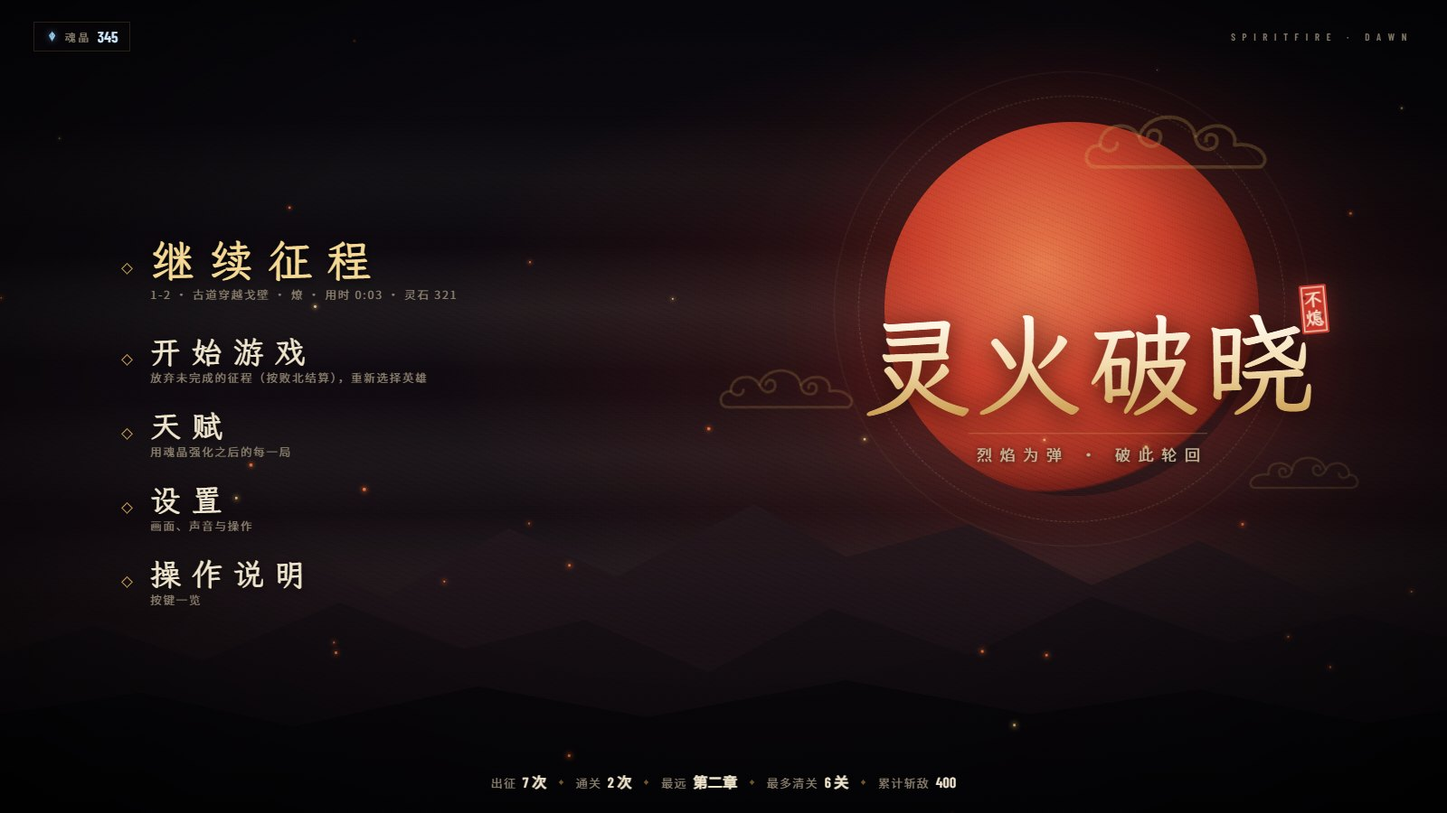
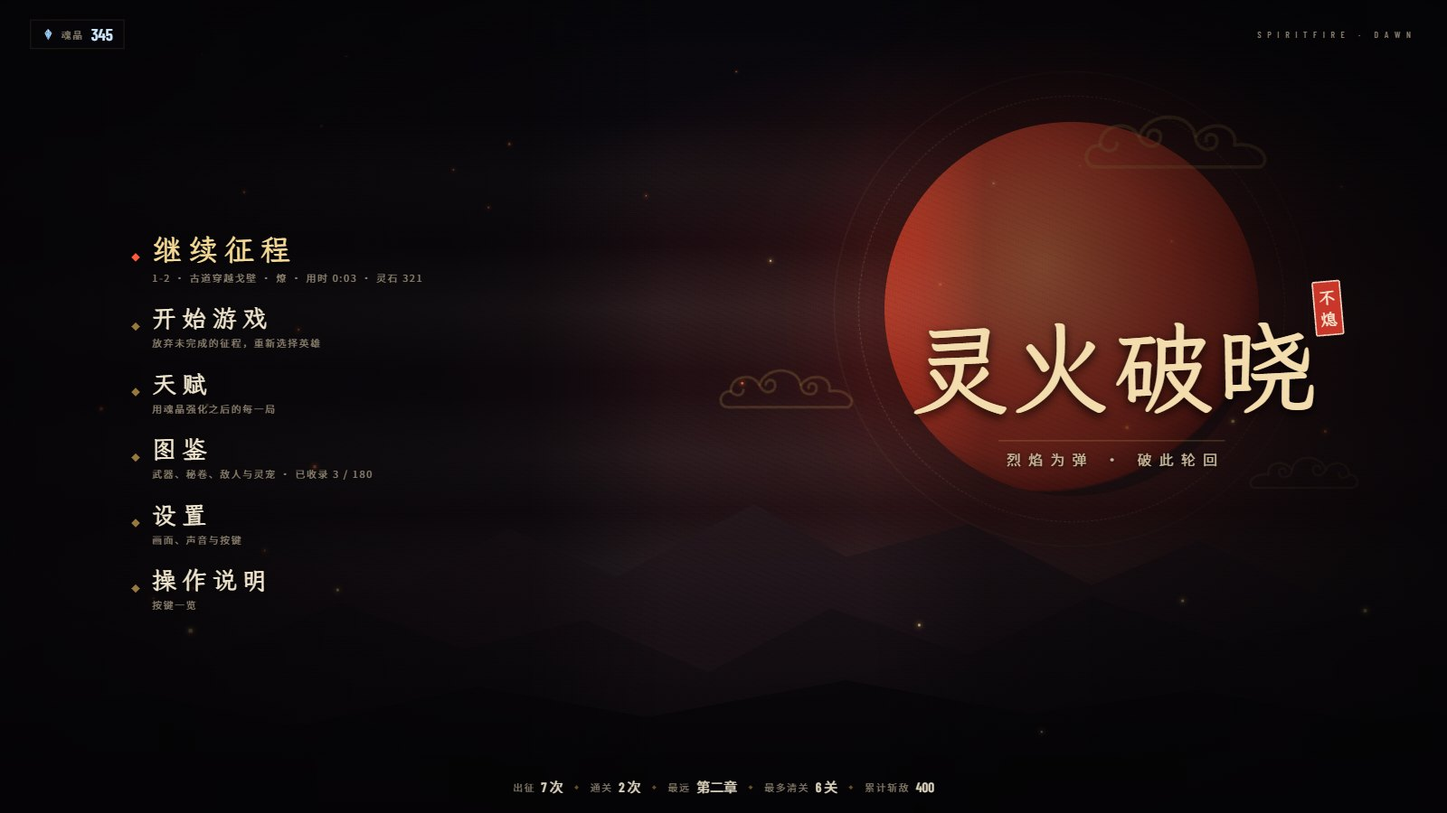
docs: M11d 按审查修完——迁移计划 4.7 / 计划表记阵亡当场结算、快照先于 stage:loaded、确认框接新主菜单；实机脚本改走界面第二期
- scripts/web/core-check.mjs：「继续征程」按新主菜单的 data-name 找；进关快照不含聚宝盆 / 补弹、反复暂离灵石不涨、继续征程生命照档、
  出征先弹确认框（取消不动档）、阵亡当场结算且慢动作里不能暂停 / 暂离，31 项（5713 端口实机全过）
- 截图按新界面重拍：主菜单「继续征程」、暂停、设置·画面，新增出征确认框、阵亡结算

diff --git a/docs/threejs-migration.md b/docs/threejs-migration.md
@@ -89,7 +89,7 @@ Unity 编辑器 ──bridge.sh webgameplay──▶ public/assets/unity-gamepla
 | M11a | 渲染观感：StylizedLit / Terrain / Foliage / Fur 着色、材质参数导入、后处理栈、三色环境光 / 雾 / 天空、CSM | 7.6k 着色器 | 🔶 材质 ✅ 2026-11-16（1f213358，`src/world/UnityStylizedLit.ts`：色阶、阴影染色、阶梯高光、边缘光、地形高度混合 / 宏观噪声 / 坡度压暗 / 陡坡三向投影、植被风摆与背光透射，Trilight 投成 SH 环境光）；太阳阴影照 Unity 管线（0564dd10，2048 贴图、90 m、跟相机）；云天 + 逆光光柱接入（52c719c6）；后处理栈 ✅ 2026-11-18（646f7eae，`src/render/PostStack.ts`：HDR 目标 + URP Bloom + 照 URP Color.hlsl 写的 Neutral + 每关 Volume 调色烘 LUT + 暗角 + 色差 + 低血 / 受击 / 冲刺玩法屏效；`scripts/web/export-volume-profiles.mjs` 从 27 份 Profile 导出 `volumes.json`，含 3-3 火神王座局部 Volume 的盒子混合；`?post=0` 或低画质绕开）。待办：AO、3-3 第一人称手被泛光吹白、1-2 比 Unity 偏灰（大气在 ACES 下调的，要按 Neutral 重调）、Fur、导出器补 `_ORMMap` / 关键字 / 地形材质参数、流动雾带与小活物逐图摆位 |
 | M11b | 特效核心：预设 JSON + 粒子引擎、线条、灯光池、贴花、预警圈、溶解、状态皮肤（首领专属特效随 M6） | 5k + 6.4k | ⬜ 注意：网页版已有一批「特效分层」（703950b2 / dd6db46d / 49b82303：`Fx.ts` 的余韵、`Seal.ts` 国风法印、三种新粒子形状、狐 / 熊 / 隼技能，准则 docs/art/fx-style.md 第五节），换粒子引擎时要一起迁过去，不能丢 |
 | M11c | 界面：USS → CSS、四层路由、字体、约 10 个新界面、HUD 部件重做 | 13.5k | ✅ 2026-11-21。第一期（基础 + HUD）✅ 2026-11-19（3f892251…ed68a128）：`scripts/web/convert-uss.mjs` 把 9 份 USS（763 条规则）转成 `src/ui/css/unity/*.css`（`--check`；`-unity-*` 映射表 MAPPED / 转不了的 UNSUPPORTED，现在只有 theme 的段间距一处），UI Toolkit 默认值的网页基准在 `src/ui/css/sf-base.css`（零优先级：纵向 flex、border-box、最小尺寸 0、`\n` 总换行）；`scripts/web/publish_fonts.py` 把三种字体（正文子集 + 余量、霞鹜文楷子集、Barlow Condensed）转 WOFF2 发布到 `public/assets/fonts`，@font-face 带按字表生成的 unicode-range（余量 4 MB 用到才下），旧 gf-* 界面的字体变量也换成它们；`src/ui/toolkit/`：四层（Hud / Overlay / Modal / Toast，1920×1080 Expand 缩放）、路由（栈、返回、焦点还原、方向键空间导航与连发、滑条左右调值）、提示队列、横幅、黑幕、闪光、图标、FitLabel；`src/ui/hud/`：生命护盾、武器槽、Q / E 技能盘 + 冲刺格、武器技能 V 盘、信息角、准星、六向受击弧 + 闪屏 + 低血暗角、伤害数字（池 80、按目标合并：Feedback 把敌人放进 `DamageNumberOpts.target` 交给 UI）、头顶血条、首领条（BossDef 刻度、无敌、破防条）、交互提示卡、中央大字、反应首遇教学卡；`src/ui/screens/`：暂停、设置（按设置表生成三页）。对照测试 `tests/uss-convert.test.mjs`、`tests/ui-router.test.mjs`；实机截图 `node scripts/web/ui-shots.mjs <端口>` → `docs/art/review/threejs-migration/ui-*.jpg`。与 Unity 的差异：目标文字没有遭遇 / 出口的 SetObjective 钩子，按同样格式从关卡状态拼；技能「放不出来」闪红靠按键时没有充能判断（技能系统没有拒绝事件）；网页武器没有预热转速、元素轮转「下一发」的读数（转速条 / 转速环不出现，三才转轮显示金圈「三」）；设置页没有显示模式 / 分辨率 / 垂直同步 / 帧率上限 / 屏幕特效 / 瞄准辅助（网页无对应设置），多一项阴影精度；暂停「返回主菜单」照网页现状不结算、总要二次确认（续玩随 M11d）；UICapture 不需要（浏览器截图本来就带界面）。**第二期** ✅ 2026-11-21（分支合并前 rebase 过，这里写提交标题不写哈希，`git log -F --grep '<标题>'` 可查：「确认框、按键说明、设置「按键」改键页与键位表」「HUD 新部件」「新界面与旧界面重做」「界面全部走新路由」「罗盘条与全图的方位照 Unity」「图鉴敌人页照 Unity 名册」「清掉旧 gf-* 界面的残留」「M11c 第二期路由规则与数据映射对照测试」「M11c 第二期 1920×1080 实机截图 26 张」；审查后的修正「Tab 行囊常驻属性照 Unity StatGrid.KeyStats」「精英印章的词缀纹样改用词缀本身的颜色」「图鉴武器缩略图摘掉掉落模型的稀有度光晕再取景」「关卡卡片只在出口进门时弹」「局内货币在界面上叫灵石」「秘卷代价行照 Unity」「ui-screens 补对照——行囊属性表」「M11c 第二期截图按审查修正重拍」「掉落 / 宝箱 / 商店提示里的局内货币改叫灵石」）：新界面——确认框、按键说明、设置「按键」改键页（`src/ui/KeyBinds.ts` 键位表：改键只换第一个键盘键、存 localStorage 只存改过的、套到 `ctx.input.bindings`）、图鉴（`src/ui/codex/`：收录存档、条目清单、离屏缩略图棚 `CodexThumbs`、局内收录 `CodexTracker`；敌人页照 Unity 名册只列 44 条、章内按 [Defs] 序、首领「首领 · 称号」，网页注册表里旧三英雄名册与首领附属件不列）、M 键全图 + 罗盘条（`MapMarkers.ts` 地点表；方位照 Unity：北 = +Z、东 = −X，导出器只翻 X）、关卡卡片（出口进门 `Portal.enter` 换关前问 `IUI.stageCard`，同 Unity `GameSession.CompleteStage` 只在真正过关时弹；检视页跳关 / 重置直接 `game.advance` 不弹）、HUD 部件精英印章 / 秘卷触发弹字 / 狙击镜遮罩 / 灵宠面板（数据走 `PetSource`，M9 接之前是空态壳）；旧界面迁到新路由与 USS 样式——主菜单（CSS 远景 `MenuBackdrop` 垫底）、选英雄（嵌旧 3D 预览台）、天赋、整局结算、秘卷三选一、Tab 行囊（含灵宠页）；文字映射集中在 `ScreenData.ts`；层位登记在 `UI.ts` 的 SCREEN_SLOTS（全部 done）。旧 gf-* 界面与样式删掉：`base.css` 只留容器文字基准（原来的 `.gf-ui button { font: inherit }` 一直盖着 USS 按钮字号），`dom.ts` / `labels.ts` / `icons.ts` 只剩新界面在用的；`src/fx/Fx.ts` 不再挂 `src/fx/DamageNumbers.ts`（文件没动，现无引用），`fx.damageNumber` 转交 UI 的 HUD 数字。对照测试 `tests/ui-screens.test.mjs`（路由规则 / 热键 / 键位 / 按键说明对 Unity C#，各界面文字映射对 Unity 字面量，图鉴名册 / Lore / 分页 / 存档，全图投影用 1-1 真数据），`tests/adventure-ui.test.mjs` 改测新地点表。实机 `node scripts/web/ui2-shots.mjs <端口>` → `docs/art/review/threejs-migration/ui2-*.jpg`（28 张，1920×1080；审查第一轮后重拍，多了高风险卷的三选一卡面与图鉴说明两张，关卡卡片改走出口进门）：每张在页面里核对 USS 写死的长度 / 颜色 / 排版值（27648 项零不一致；宽高只有图鉴详情大图框被 flex 压 5 px，Yoga 同样会压）、摘掉全部 gf- 规则前后 sf 元素计算样式不变、页面报错 0（worktree 里跑要给 vite 放行主检出的 node_modules，见脚本头注释）。与 Unity 的差异：灵宠本体没迁（M9），HUD 灵宠面板不显示、行囊灵宠页 / 图鉴灵宠页签是空态；秘卷系统没有「触发」事件，秘卷触发弹字只有入口 `UI.scrollProc(id)` 没有调用方；精英印章的词缀纹样是 canvas 简化版（Unity 纹样随金环属 M11b）；关卡卡片没有「重来本关」（没有进关快照，M11d）；秘卷卡面没有「当前 → 下一层」属性预览（网页秘卷定义没有 PreviewStats）；行囊武器卡数值格用武器系统的描述，条数随武器而定（Unity 固定六格）；全图上没开的出口不上图（网页清场后才定出口）、场地没有「前置场地」只按远近挑目标；主菜单 / 选英雄没有 3D 菜单场景（CSS 远景 + 旧预览台）；没有手柄（按键说明与改键页手柄一列写「—」、设置主菜单副标题去掉「手柄」）；胜利题记按网页 `CHAPTER_COUNT`（4）写「四章尽破」，Unity 写死「三章尽破」；图鉴缩略图拍绑定姿势（Unity 先求动画第 0 帧）、连鼓灵没有网页模型（单字签） |
-| M11d | 核心：存档迁移、续玩、时间仲裁、卡帧、模态栈、画质档、剔除 | 7.6k 中约一半 | ✅ 2026-11-21（提交见 git log 的 `feat(core): M11d …` 一组；rebase 到界面第二期之后旧哈希失效），对照清单见 4.7：存档信封（`core/SaveService.ts`：版本 / .bak / .corrupt / 迁移，localStorage 一文件一键；老存档 `gunflame.meta.v1` 按信封 v1 迁成 meta / career 两段，老键不动）、元进度与生涯（`progression/Meta.ts`：一局只结一次、天赋开局快照）、设置表（`core/GameSettings.ts`：设置页由表生成，补帧率上限 / 屏幕特效；老设置导入时把 M11e 之前的音量按旧缺省换算，听感不变）、续玩（`progression/RunSuspend.ts`：每进一关写进关快照，主菜单「继续征程」、暂停「返回主菜单」暂离不结算、没结算的局回主菜单按失败结算）、时间仲裁提到 core（首领框架原处转出口）+ 模态栈 + 顿帧 + 清场慢动作 + 手感表、三档画质参数表（渲染比例已接）、Unity 场景小件 / 散布件按距离剔除、性能预算、平衡模型与经济投影（`progression/BalanceModel.ts`，`?debug` 的 `__balance()`）。对照测试 `tests/unity-core-time` / `unity-core-save` / `unity-core-quality` / `unity-balance`；实机 `node scripts/web/core-check.mjs <端口>` 25 项。待办：开新局放弃旧局的确认框与主菜单旧设置面板（界面第二期）、画质表其余列（各系统那一期接）、顿帧的斩击 / 技能直接来源与武器 / 秘卷的正式读档入口（M8） |
+| M11d | 核心：存档迁移、续玩、时间仲裁、卡帧、模态栈、画质档、剔除 | 7.6k 中约一半 | ✅ 2026-11-21（提交见 git log 的 `feat(core): M11d …` 一组；rebase 到界面第二期之后旧哈希失效），对照清单见 4.7：存档信封（`core/SaveService.ts`：版本 / .bak / .corrupt / 迁移，localStorage 一文件一键；老存档 `gunflame.meta.v1` 按信封 v1 迁成 meta / career 两段，老键不动）、元进度与生涯（`progression/Meta.ts`：一局只结一次、天赋开局快照）、设置表（`core/GameSettings.ts`：设置页由表生成，补帧率上限 / 屏幕特效；老设置导入时把 M11e 之前的音量按旧缺省换算，听感不变）、续玩（`progression/RunSuspend.ts`：每进一关写进关快照，主菜单「继续征程」、暂停「返回主菜单」暂离不结算、没结算的局回主菜单按失败结算）、时间仲裁提到 core（首领框架原处转出口）+ 模态栈 + 顿帧 + 清场慢动作 + 手感表、三档画质参数表（渲染比例已接）、Unity 场景小件 / 散布件按距离剔除、性能预算、平衡模型与经济投影（`progression/BalanceModel.ts`，`?debug` 的 `__balance()`）。对照测试 `tests/unity-core-time` / `unity-core-save` / `unity-core-quality` / `unity-balance` / `unity-core-flow`；实机 `node scripts/web/core-check.mjs <端口>`。2026-11-22 按审查修：阵亡当场结算（慢动作里不能暂停 / 暂离）、进关快照先于 `stage:loaded`（暂离 → 继续不再刷聚宝盆 / 弹药）、换关载入失败不结算、放弃旧征程等场景清单；rebase 到界面第二期之后「继续征程」接到新主菜单，出征前的确认框接上；局流程测试 `tests/unity-core-flow`。待办：画质表其余列（各系统那一期接）、顿帧的斩击 / 技能直接来源与武器 / 秘卷的正式读档入口（M8） |
 | M11e | 音频：改播烘好的 ogg + WebAudio 总线 | 1.3k | ✅ 2026-11-18（db6ae16d；素材 ba1adca8：`scripts/web/publish-audio.mjs` 把 Unity 的 246 个音效片段 + 8 条曲目 / 声床 + 清单拷到 `public/assets/audio`，核对 OggS / DLP 密文，`--check` 逐字节）。`src/audio/AudioSystem.ts` 照 GameAudio 播 ogg：48 声道抢占、同 id 节流 + 敌方音色单独节流、密集音、k^1.6 衰减、近处声像收窄、远处 / 背后低通、遮挡（`ctx.world.raycast`）、I6 三层分层、光束循环、配乐交叉淡化；`AudioMixer.ts` 照 Spiritfire.mixer 搭总线与快照；MusicDirector / AmbienceDirector（每章声床、章节混响送、3-3 混响区）/ AudioDuck / UISound 照译；规则与常数在 `AudioRules.ts`，对照测试 `tests/audio-parity.test.mjs`。设置补环境音 / 界面音两档，五档缺省改成 1（同 Unity）。退路：清单 / 片段读不到退回老的实时合成配方。待办：老存档里的音量是旧语义（M11d 存档迁移时换算）；SFX Reverb 是卷积近似；3-3 的混响区照 Unity 挂在世界原点（离主路远，多半听不出，Unity 同样）；WeatherDirector 的风声随天气系统迁 |
 | M12 | 动画：native-anim → AnimationClip、Blender 片段导 GLB、控制器状态机与事件、CreatureRig | 1.8k 运行时 | 🔶 第一期 ✅ 2026-11-16（51e4bf35）：`npm run` 外的 `node scripts/web/export-native-anims.mjs` 把 52 个资产 469 个采样片段导成 `public/assets/anim/*.json`（3.5 MB，带 231 个片段的事件）；`src/anim/` 复刻 Animator（一维混合树、任意状态 / 退出时刻转换、加法受击层、逐帧事件）、CreatureRig（脚步探地 + 两骨 IK、看向、受击弹簧、弹簧骨）、CreatureLocomotion；检视页 `anim-lab.html`。待办：敌人类改用 `CreatureAnimator`（接法见 `src/anim/CreatureAnimator.ts`）；Blender 手 K 片段（15 个资产约 123 个，旱魃 / 商人只有手 K）加 GLB 导出；魔将 11-07 换骨架后采样片段失效；布娃娃 |
 | M13 | Unity EditMode 对照测试 → `node --test` | — | 🔶 2026-11-21：伤害乘区 / 战斗管线 / 属性表、元素反应、词条 / 传说、武器解析与掷骰、武器描述、秘卷（定义与公式）、精英词缀与站位、开火计时常量——8 份 `tests/unity-*.test.mjs`；75 份 Unity 测试逐份的去向和对照出来的不一致见 7.1 / 7.2。待办：FireMode / WeaponSpecials / Hero / Motor / Projectile 的行为用例（等 M8）、秘卷逐卷触发、Hazard / BossHazard |
@@ -242,7 +242,7 @@ Unity 的九种雷魅是照网页 `world/plateau/play/foes.ts` 译的（`Plateau
 | MetaSave（魂晶 / 天赋 / 英雄）、CareerStats、`BankRun`、天赋开局快照、`ApplyTalents` 幂等 | `progression/Meta.ts` | ✅ meta 段 + career 段（照 Unity 多记阵亡 / 各章阵亡 / 最快通关 / 单局最多击杀 / 总用时 / 总伤害 / 累计魂晶 / 各英雄局数胜场；老存档没有阵亡，按 局数 − 胜场 补）；一局只结一次（`run.flags['meta.banked']`）；天赋按 `run.talents` 快照生效，和属性表现有的一样时不动（版本号不变）。界面读的 `meta.save` 形状不变（活视图）。图鉴段（Codex*）随界面第二期 |
 | GameSettings（设置表、`settings` 段只写非默认项、老 PlayerPrefs 导入） | `core/GameSettings.ts`、`core/settings.ts`；设置页 `ui/screens/SettingsScreen.ts` 由 `GAME_SETTINGS` 生成 | ✅ 两边都有的项键 / 显示名 / 分组 / 默认 / 范围 / 步长 / 选项 / 顺序逐项对 C#；补进表的：帧率上限、屏幕特效（接后处理的玩法屏效强度），震屏上限 1.5。Unity 独有、网页不列：显示模式 / 分辨率 / 垂直同步（浏览器管）、手柄瞄准辅助（没有手柄输入）；网页独有：阴影精度。画质在 Unity 存 ArtQuality 自己的 PlayerPrefs，网页存在设置段（下标）。**老设置**（`gunflame.settings.v1`）导入一次：M11e 之前的音量是旧语义（主 / 音效 / 音乐缺省 0.8 / 0.9 / 0.5 就是总线电平，音乐另乘 0.6），除以旧缺省换成新推子（旧 0.4 / 0.45 / 0.25 → 0.5 / 0.5 / 0.5，实际电平 = 推子 × 清单 mix 0.8 / 0.9 / 0.3，听感不变），超过旧缺省的夹在 1；带环境音 / 界面音两项的是 M11e 之后存的，原样 |
 | GraphicsQuality（帧率上限、显示模式、分辨率、垂直同步） | `GameSettings.ts` 的 `FrameLimiter` / `targetFrameRate` | 🔶 帧率上限按 rAF 跳帧（144 Hz 限 60 = 隔 2 或 3 帧，平均 60），后台标签页浏览器自己限；显示模式 / 分辨率 / 垂直同步不做 |
-| RunSuspend（进关快照、续玩档、坏档提示、放弃按败北结算、`CanSuspend`）+ MenuFlow（`ResumeRun` / `Suspend` / `ToMenu(bank)` / `StartRun` 放弃旧局） | `progression/RunSuspend.ts`；`core/Game.ts` 的 `continueRun` / `suspendRun` / `canSuspend` / `suspendedRun`、`toMenu(bank)`；主菜单「继续征程」、暂停「返回主菜单」 | ✅ 每进一关（关卡搭好、玩家就位后）写 `spiritfire.save/run.json`（调试档开着时调试局写 `run.dev.json`）：关卡（槽位编号 + 地图编号）、英雄、种子、路线、武器（品质 / 强化 / 元素 / 弹药 / 词条 / 手上那把）、秘卷层数（按获得顺序）、灵石、魂晶、生命护盾、用时 / 伤害 / 击杀 / 清关数、标记、天赋快照；随机流只由「种子 + 关卡 + 流名」决定，不另存。一局结算（阵亡 / 放弃 / 胜利 / 开新局放弃旧局）就删档；暂停「返回主菜单」能暂离时一按就走、不结算，否则（调试局）按失败结算、二次确认；没结算过的局回主菜单先按失败结算（Three.js 原来不结算、白丢魂晶，照 Unity 不跟）。差异：开新局时有续玩档，Unity 先弹确认框，网页还没有确认框（界面第二期），「开始游戏」的提示里写明会放弃旧局；继续征程照样发 `run:started`（网页的掉落 / 技能 / HUD 靠它复位）；章从 0 起（网页 RunState）；没有灵宠（M9）；读档装回武器靠 `weapons.roll` + 改字段 + `applyHeldMods`，秘卷 `scrolls.add` 静音装回（M8 给武器 / 秘卷加正式读档入口后换掉） |
+| RunSuspend（进关快照、续玩档、坏档提示、放弃按败北结算、`CanSuspend`）+ MenuFlow（`ResumeRun` / `Suspend` / `ToMenu(bank)` / `StartRun` 放弃旧局） | `progression/RunSuspend.ts`；`core/Game.ts` 的 `continueRun` / `suspendRun` / `canSuspend` / `suspendedRun`、`toMenu(bank)`；主菜单「继续征程」（`ui/screens/MainMenuScreen.ts`）、出征前的确认框（`startNewRun`，选英雄「出征」走它）、暂停「返回主菜单」 | ✅ 每进一关（关卡搭好、玩家就位后、发 `stage:loaded` 之前，同 Unity Arrive 先记 entry 再 Announce——聚宝盆入账、每关补弹不进快照）写 `spiritfire.save/run.json`（调试档开着时调试局写 `run.dev.json`）：关卡（槽位编号 + 地图编号）、英雄、种子、路线、武器（品质 / 强化 / 元素 / 弹药 / 词条 / 手上那把）、秘卷层数（按获得顺序）、灵石、魂晶、生命护盾、用时 / 伤害 / 击杀 / 清关数、标记、天赋快照；随机流只由「种子 + 关卡 + 流名」决定，不另存。一局结算（阵亡当场 / 放弃 / 胜利 / 开新局放弃旧局）就删档；阵亡慢动作里不能暂停、不能暂离；暂停「返回主菜单」能暂离时一按就走、不结算，否则（调试局）按失败结算、二次确认；没结算过的局回主菜单先按失败结算（Three.js 原来不结算、白丢魂晶，照 Unity 不跟）。有续玩档时出征先弹确认框（文字同 Unity MenuFlow.StartRun），放弃旧局等场景清单读到之后再做；主菜单读到坏档提示一次。差异：继续征程照样发 `run:started`（网页的掉落 / 技能 / HUD 靠它复位）；章从 0 起（网页 RunState）；没有灵宠（M9）；读档装回武器靠 `weapons.roll` + 改字段 + `applyHeldMods`，秘卷 `scrolls.add` 静音装回（M8 给武器 / 秘卷加正式读档入口后换掉） |
 | TimeScaleArbiter | `core/TimeScaleArbiter.ts`（首领框架 `enemies/bosses/framework/TimeScaleArbiter.ts` 改成转出口，行为不变） | ✅ 优先级 顿帧 100 / 阵亡 200 / 过渡 300 / 模态 400 / 暂停 500，清场慢动作 90；同级取最后一个；句柄 scale 可改；NaN / 负数当 0、上限 100。比 Unity 多的（M6 那一版就有）：按真实时间自动撤销、外部接管（白盒检视页的俯视暂停还直接写 timeScale）。主游戏不再直接写：暂停 / 模态 / 阵亡慢动作都经仲裁 |
 | GameStateMachine（底层状态 + 模态栈） | `core/GameStateMachine.ts`，`Game.fsm` | ✅ 暂停 / 模态各是栈上一项（停住时间，弹出撤销）；`game:stateChanged` 由它发 |
 | HitStop | `core/HitStop.ts`，Game 接 `enemy:killed` / `enemy:damaged` / `enemy:reaction` | ✅ 击杀 0.035 / 0.07 / 0.18 s、重暴击（打掉总量 18%，冲锋枪暴击不算）0.025 s、直接反应 0.045 s，×0.05；不叠加、最小间隔 0.12 s、预算桶 0.15 s / 每秒回 0.075 s、不够 12 ms 不顿。没接：斩击命中、技能落地这类直接 `request` 的来源（武器 / 技能在 M8） |
@@ -252,10 +252,11 @@ Unity 的九种雷魅是照网页 `world/plateau/play/foes.ts` 译的（`Plateau
 | CullLayers（小件层 8 / 散布层 9 + 相机 layerCullDistances） | `core/CullLayers.ts`，Game 在 `stage:loaded` 给 Unity 场景分层 | ✅ 尺寸分层（≤ 1.6 m 小件、≤ 6 m 散布）、各档距离（高 120 m / 散布到雾终点；中 90 m / 0.85；低 60 m / 0.65）照抄；three.js 没有按层的剔除距离，改成记包围盒中心、相机挪 1.5 m 才重算、改 `visible`（球面距离）。只收 Unity 场景文档里看得见的静态网格：蒙皮 / 实例化 / 着色器材质（水、熔岩）/ 会摆的（幡、灯笼）/ 已经藏起来的不动（Unity 是跳过带刚体 / 可受伤 / 非 Default 层的）；机关会动的件按原位置剔；非 Unity 场景（旧竞技场）不剔；`?cull=0` 关 |
 | PerfBudget | `core/PerfBudget.ts` | 🔶 预算数照抄（运行时 / 构建时）；`?perf=1` 性能表还没调 `checkPerf`；PerfViews（固定机位、必经点连线）不迁 |
 | BalanceModel + EconomyConfig.Project | `progression/BalanceModel.ts`（经济投影 `projectEconomy`）、`progression/BalanceBosses.ts`（四个首领的击杀用时） | ✅ 编制表照抄 C#（Unity 从场景里的 EncounterSite 统计，网页测试逐行对源码）；参考秒伤 90 × 装备倍率 × 1.6 × 0.8；补给营预算、装备计划、每章收入、魂晶估算。只算前三章（第四章网页是另一套场景，同 Unity）。EconomyConfig 本身和具名随机流 RunRng 在 M3 已迁 |
-| GameSession / SceneFlow / RunEnd / LevelBootstrap / SystemsBootstrap / PlayerFactory / PlayerSpawn / DevCommands | `core/Game.ts` | 不另迁：Unity 的场景装配；用得到的规则（开局结算旧局、进关快照、阵亡慢动作、结算一次）都落在 Game 里 |
+| GameSession / SceneFlow / RunEnd / LevelBootstrap / SystemsBootstrap / PlayerFactory / PlayerSpawn / DevCommands | `core/Game.ts` | 不另迁：Unity 的场景装配；用得到的规则（开局结算旧局、进关快照先于 StageLoaded、阵亡当场结算 + 慢动作、结算一次）都落在 Game 里，`tests/unity-core-flow.test.mjs` 拿真的 Game.ts 跑一遍（渲染 / 场景 / 界面 / 玩家 / 武器 / 秘卷打桩） |
 
-Unity 测试的去向：SaveServiceTests、RunSuspendTests（除图鉴四条）、FeelProfileTests（除瞄准辅助）、BalanceModelTests（除 `Weapons_SustainedTheoryNearThreeJsBand`、`Stage11_WeaponRewardsCannotRollRandomElement`——武器，随 M8 / M13）、GraphicsAudioTests 的 QualityTiersAreMonotonic / HighTierMatchesProjectAssets / DisplayAndVolumeSettingsPersist（网页有的项）/ FrameCapRules、PerfTests 的分层 / 剔除距离 / 预算 → 上面四份；GraphicsAudioTests 的 ProfileWritesPipelineAsset、PerfTests 的固定机位、RenderPerfSettingsTests 纯 Unity，FxBudgetFollowsQualityTier 随 M11b。
-**还没做**：开新局放弃旧局的确认框、主菜单的旧设置面板（`ui/SettingsPanel.ts` 手写，灵敏度下限 0.1、音量步长 0.01、没有帧率上限 / 屏幕特效，存盘时按表的步长取整）——都随界面第二期换掉；画质表其余列随各系统那一期接；顿帧的直接来源随 M8。
+Unity 测试的去向：SaveServiceTests、RunSuspendTests（除图鉴四条）、FeelProfileTests（除瞄准辅助）、BalanceModelTests（除 `Weapons_SustainedTheoryNearThreeJsBand`、`Stage11_WeaponRewardsCannotRollRandomElement`——武器，随 M8 / M13）、GraphicsAudioTests 的 QualityTiersAreMonotonic / HighTierMatchesProjectAssets / DisplayAndVolumeSettingsPersist（网页有的项）/ FrameCapRules、PerfTests 的分层 / 剔除距离 / 预算 → 上面四份，局流程（OnDied / Arrive / StartRun / Suspend / ResumeRun 的先后）另有 `tests/unity-core-flow.test.mjs`；GraphicsAudioTests 的 ProfileWritesPipelineAsset、PerfTests 的固定机位、RenderPerfSettingsTests 纯 Unity，FxBudgetFollowsQualityTier 随 M11b。
+界面第二期合进来之后：旧主菜单 `ui/MainMenu.ts` 和手写设置面板 `ui/SettingsPanel.ts` 已删，「继续征程」与确认框接在新主菜单 / 选英雄上，主菜单和暂停里的「设置」都是由 `GAME_SETTINGS` 生成的那一页。
+**还没做**：画质表其余列随各系统那一期接；顿帧的直接来源随 M8。
 
 ## 5. Unity 能力 → 网页对照
 
